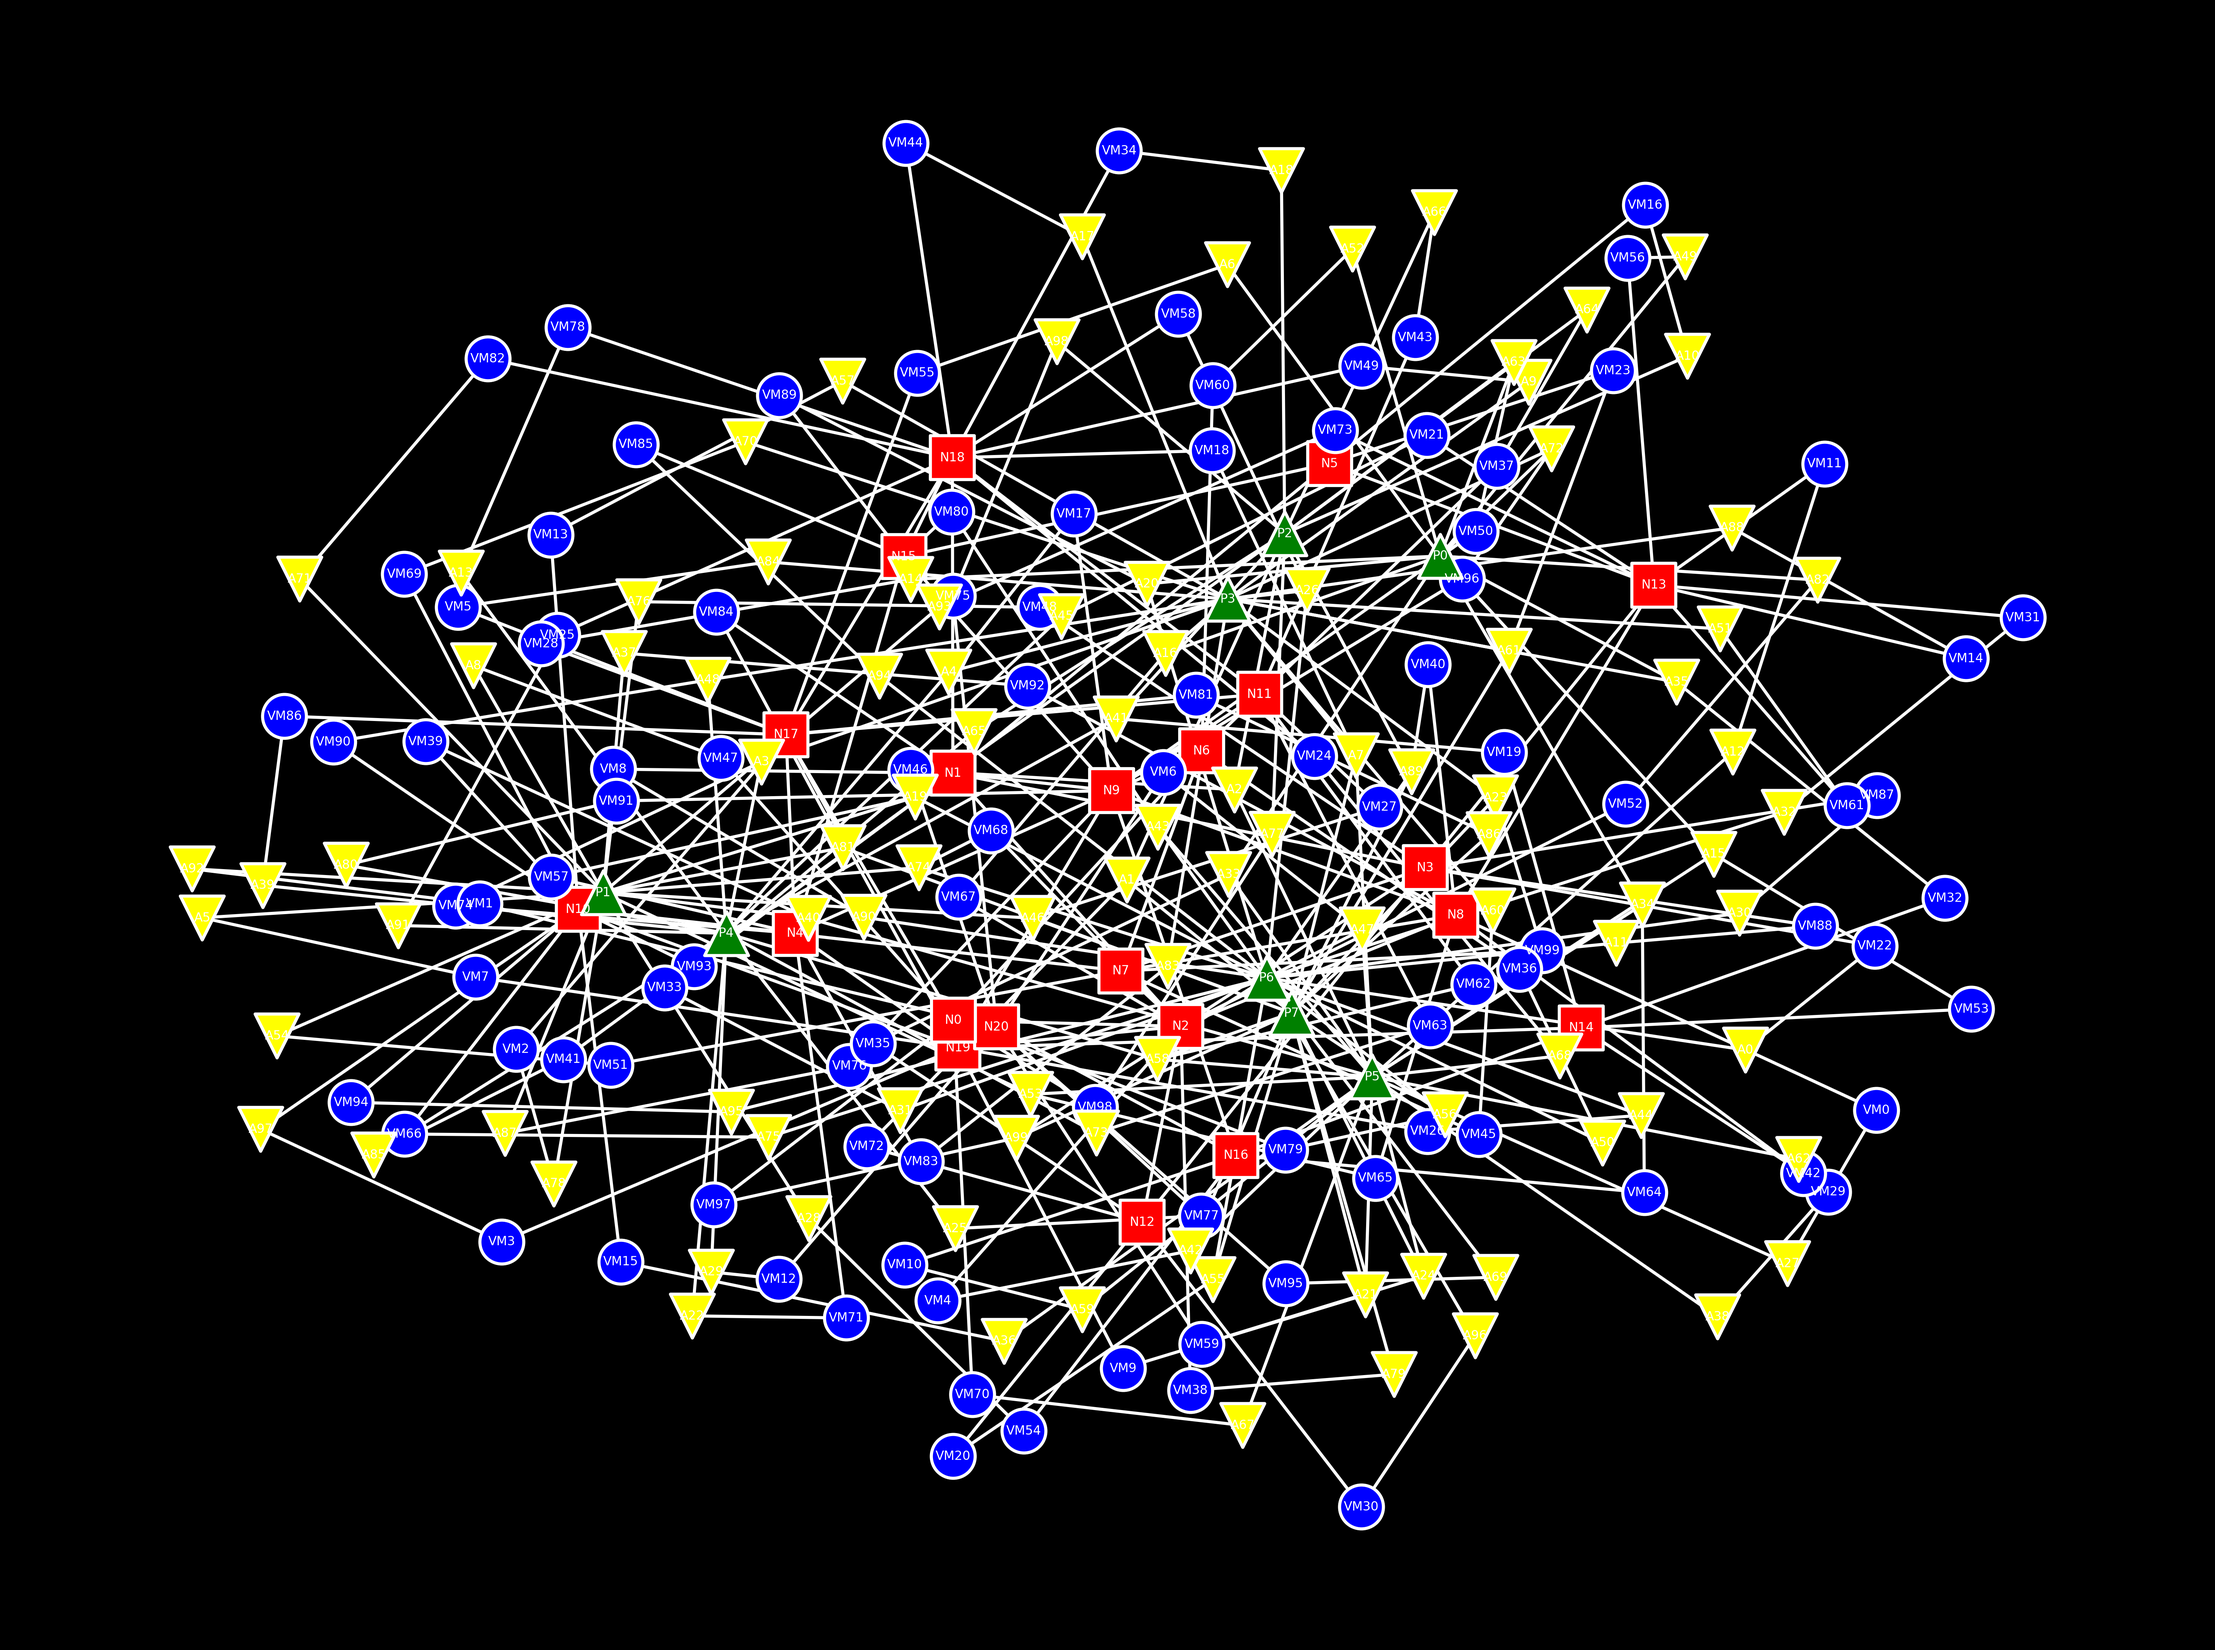
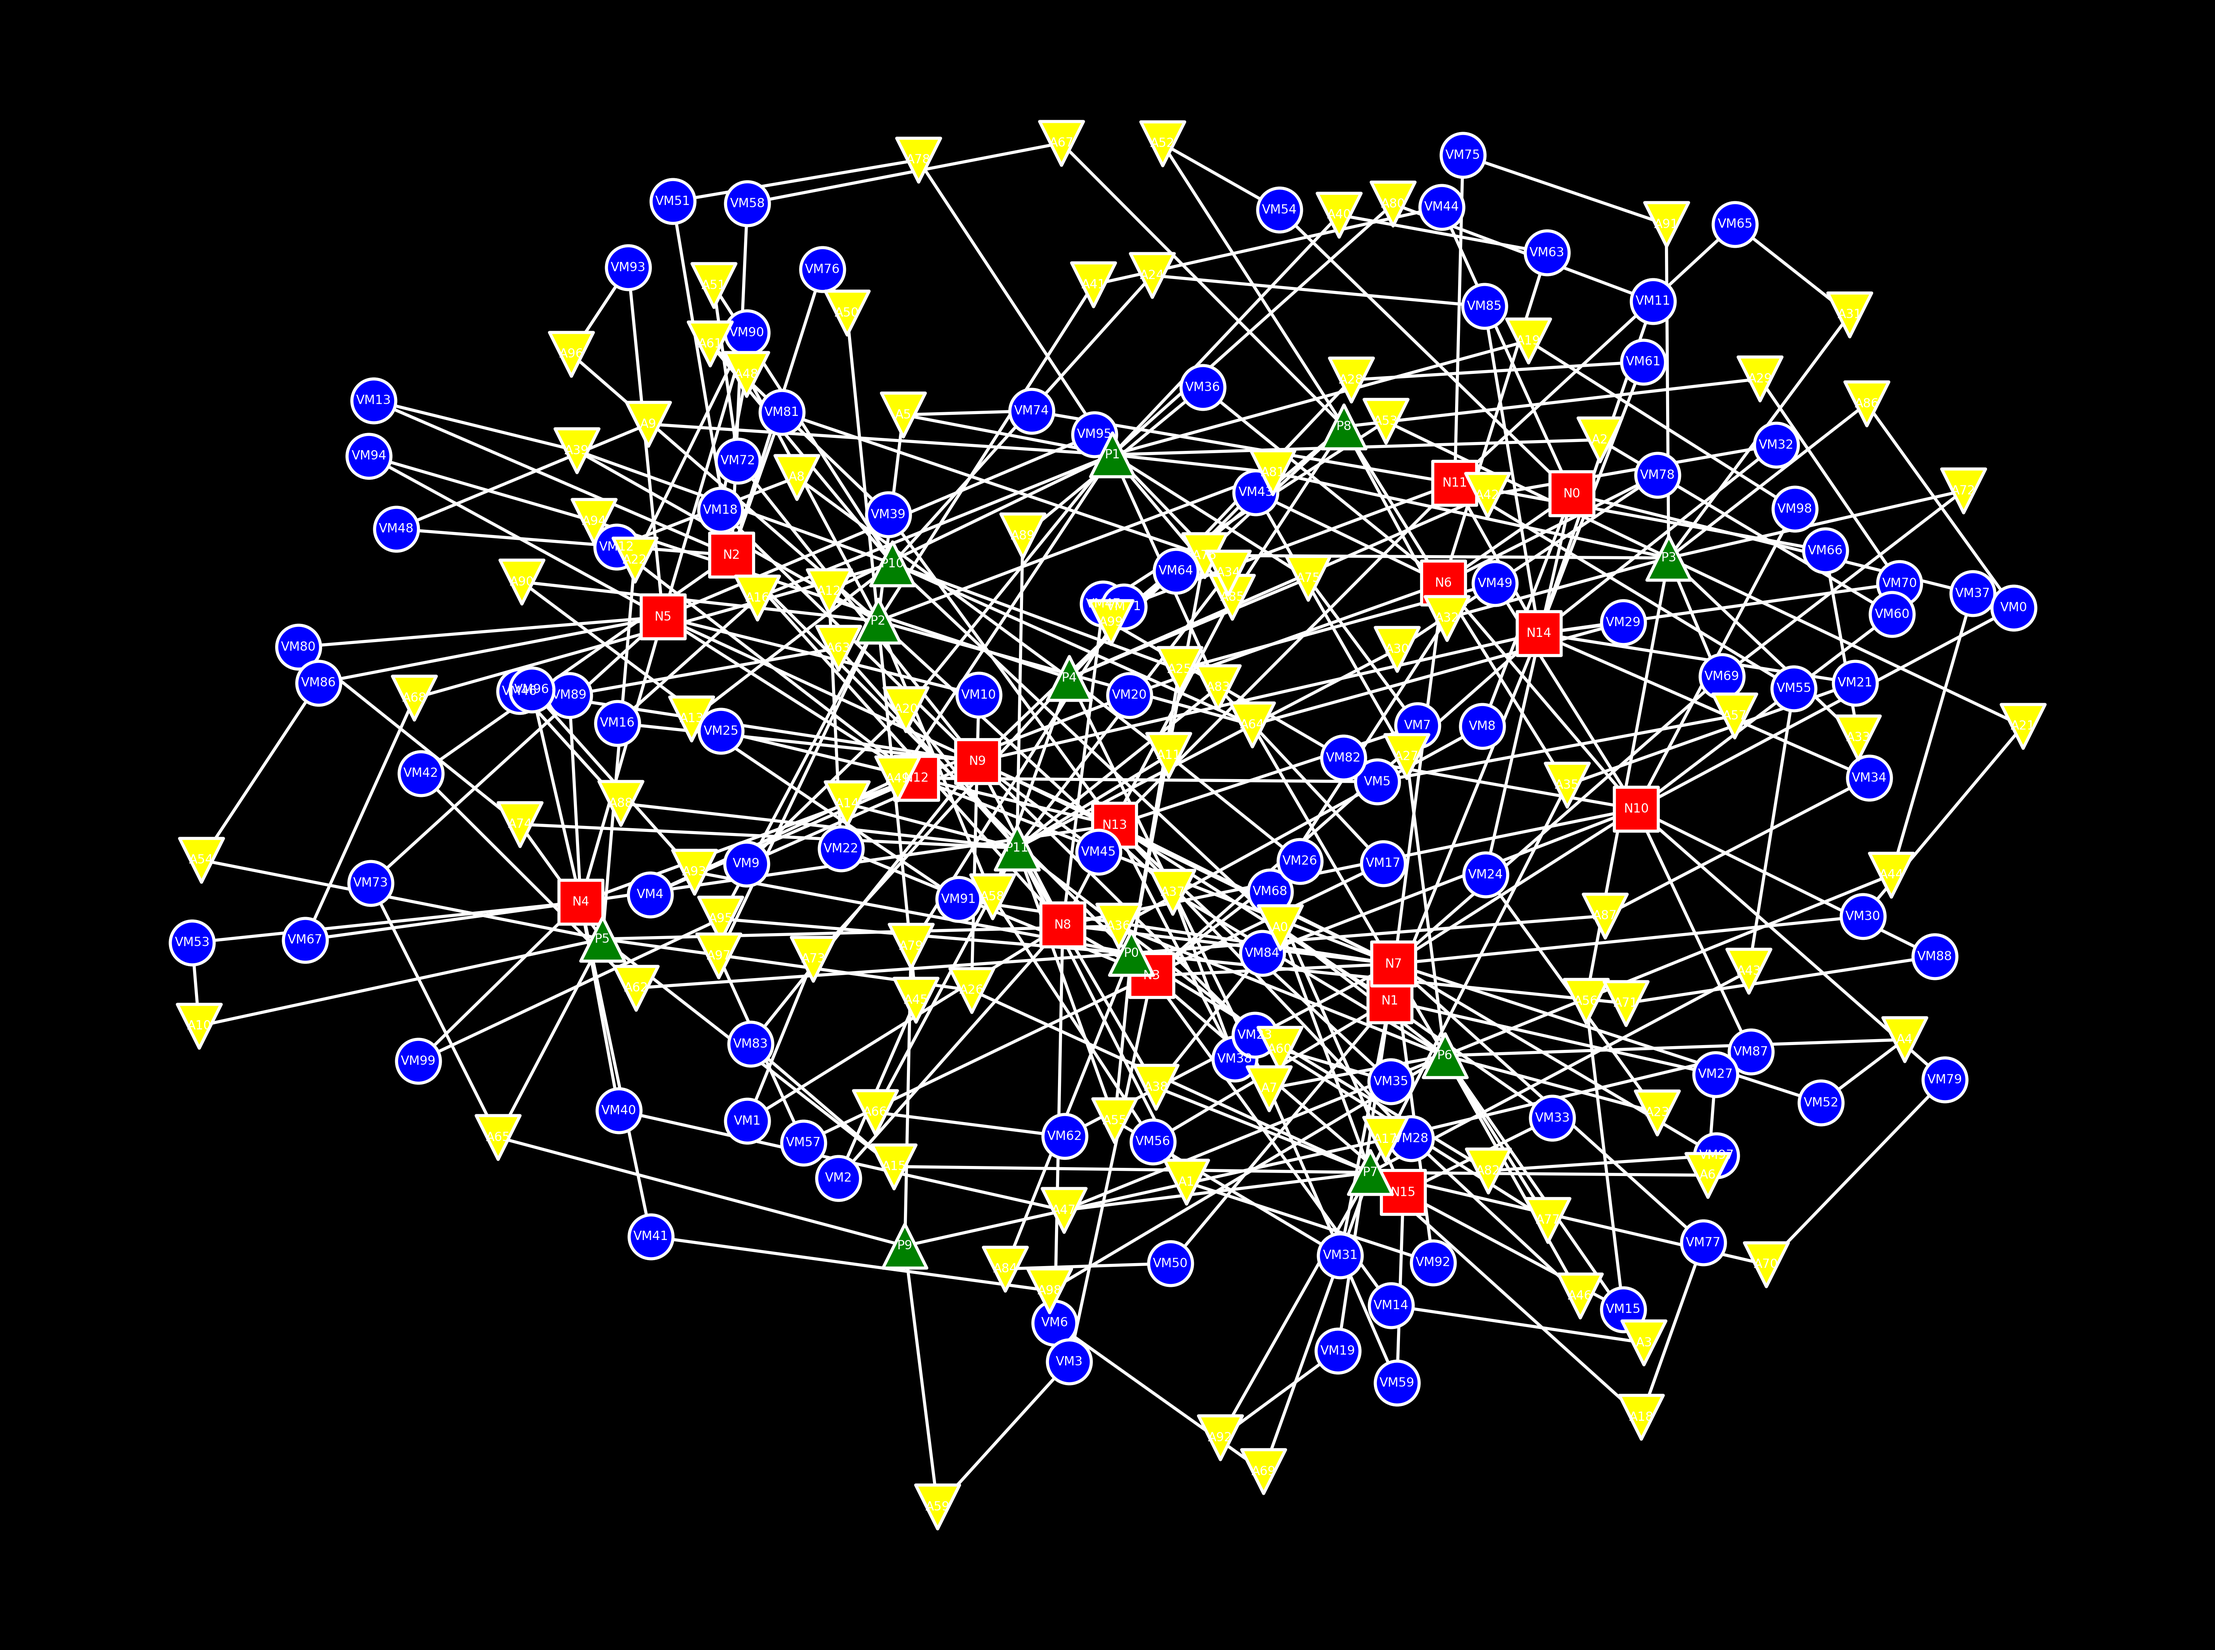
Introduced metamodel dictionary.

Changed region(s): [[0.0625, 0.0622, 0.9375, 0.9335], [0.5938, 0.9024, 0.625, 0.9335]]

diff --git a/mal_sampler.py b/mal_sampler.py
@@ -16,15 +16,17 @@ class Asset:
         return len(self.associated_assets[asset_type]) < self.n_associated_assets[asset_type]
 
     def print(self):
-        print(f"{self.asset_type_name}: {self.name}. Associated assets: {[(n, [a.name for a in list(self.associated_assets[n])]) for n in self.associated_assets]}")
+        print(
+            f"{self.asset_type_name}: {self.name}. Associated assets: {[(n, [a.name for a in list(self.associated_assets[n])]) for n in self.associated_assets]}")
 
 
-class Model():
-    def __init__(self):
+class Model:
+    def __init__(self, metamodel: dict):
         self.n_assets = dict()
         self.assets = dict()
         self.n_assets['network'] = 1 + binom(n=30, p=0.5).rvs()
-        self.n_assets['principal'] = 1 + binom(n=10*self.n_assets['network'], p=0.05).rvs()
+        self.n_assets['principal'] = 1 + \
+            binom(n=10*self.n_assets['network'], p=0.05).rvs()
         self.n_assets['vm_instance'] = 100
         self.n_assets['admin'] = sys.maxsize
         self.n_assets['login'] = sys.maxsize
@@ -38,8 +40,10 @@ class Model():
         if len(self.assets[asset_type]) < self.n_assets[asset_type]:
             if asset_type == 'network':
                 a = Asset(f"N{len(self.assets[asset_type])}", asset_type)
-                a.n_associated_assets['network'] = 1 + binom(n=500, p=0.005).rvs()
-                a.n_associated_assets['vm_instance'] = 1 + binom(n=1000, p=0.005).rvs()
+                a.n_associated_assets['network'] = 1 + \
+                    binom(n=500, p=0.005).rvs()
+                a.n_associated_assets['vm_instance'] = 1 + \
+                    binom(n=1000, p=0.005).rvs()
                 a.associated_assets['network'] = set()
                 a.associated_assets['vm_instance'] = set()
             elif asset_type == 'principal':
@@ -57,50 +61,67 @@ class Model():
                 a.associated_assets['vm_instance'] = set()
                 a.associated_assets['principal'] = set()
                 a.n_associated_assets['vm_instance'] = 1
-                a.n_associated_assets['principal'] = 1 + binom(n=5, p=0.1).rvs()
+                a.n_associated_assets['principal'] = 1 + \
+                    binom(n=5, p=0.1).rvs()
             elif asset_type == 'login':
                 a = Asset(f"L{len(self.assets[asset_type])}", asset_type)
                 a.associated_assets['vm_instance'] = set()
                 a.associated_assets['principal'] = set()
                 a.n_associated_assets['vm_instance'] = binom(n=30, p=0.5).rvs()
-                a.n_associated_assets['principal'] = 1 + binom(n=5, p=0.1).rvs()
+                a.n_associated_assets['principal'] = 1 + \
+                    binom(n=5, p=0.1).rvs()
             else:
                 raise ValueError(f'Unknown asset type: {asset_type}')
             self.assets[asset_type].add(a)
         else:
-            print(f'Reached the limit of {self.n_assets[asset_type]} {asset_type} assets.')
+            print(
+                f'Reached the limit of {self.n_assets[asset_type]} {asset_type} assets.')
         return a
 
     def associate(self, source_asset_type: str, target_asset_type: str):
-        print(f'Attempting to associate some {source_asset_type} to some {target_asset_type}')
-        available_source_assets = [a for a in self.assets[source_asset_type] if a.accepts(target_asset_type)]
+        print(
+            f'Attempting to associate some {source_asset_type} to some {target_asset_type}')
+        available_source_assets = [
+            a for a in self.assets[source_asset_type] if a.accepts(target_asset_type)]
         if len(available_source_assets) == 0:
-            print(f'Could not find, and would not create, source {source_asset_type} to associate to {target_asset_type}') 
+            print(
+                f'Could not find, and would not create, source {source_asset_type} to associate to {target_asset_type}')
             return False
         else:
-            print(f'Found {len(available_source_assets)} {source_asset_type} to associate to {target_asset_type}')
+            print(
+                f'Found {len(available_source_assets)} {source_asset_type} to associate to {target_asset_type}')
             source_asset = random.choice(available_source_assets)
 
-            available_target_assets = [a for a in self.assets[target_asset_type] if a.accepts(source_asset_type)]
-            print(f'Prelim 1: Found {len(available_target_assets)} {target_asset_type} to associate to {source_asset_type}')
-            available_target_assets = [a for a in available_target_assets if a not in source_asset.associated_assets[target_asset_type]]
-            print(f'Prelim 2: Found {len(available_target_assets)} {target_asset_type} to associate to {source_asset_type}')
+            available_target_assets = [
+                a for a in self.assets[target_asset_type] if a.accepts(source_asset_type)]
+            print(
+                f'Prelim 1: Found {len(available_target_assets)} {target_asset_type} to associate to {source_asset_type}')
+            available_target_assets = [
+                a for a in available_target_assets if a not in source_asset.associated_assets[target_asset_type]]
+            print(
+                f'Prelim 2: Found {len(available_target_assets)} {target_asset_type} to associate to {source_asset_type}')
             if target_asset_type == source_asset_type:
-                available_target_assets = [a for a in available_target_assets if a != source_asset]
-            print(f'Found {len(available_target_assets)} {target_asset_type} to associate to {source_asset_type}')
+                available_target_assets = [
+                    a for a in available_target_assets if a != source_asset]
+            print(
+                f'Found {len(available_target_assets)} {target_asset_type} to associate to {source_asset_type}')
             if len(available_target_assets) > 0:
                 target_asset = random.choice(available_target_assets)
             else:
-                print(f'Not enough {target_asset_type} to associate to {source_asset_type}. Attempting to create one.')
+                print(
+                    f'Not enough {target_asset_type} to associate to {source_asset_type}. Attempting to create one.')
                 target_asset = self.add(target_asset_type)
 
             if target_asset:
-                source_asset.associated_assets[target_asset_type].add(target_asset)
-                target_asset.associated_assets[source_asset_type].add(source_asset)
+                source_asset.associated_assets[target_asset_type].add(
+                    target_asset)
+                target_asset.associated_assets[source_asset_type].add(
+                    source_asset)
                 print(f'Associated {source_asset.name} to {target_asset.name}')
                 return True
             else:
-                print(f'Could not find or create target {target_asset_type} to associate to {source_asset_type}') 
+                print(
+                    f'Could not find or create target {target_asset_type} to associate to {source_asset_type}')
                 return False
 
     def print(self):
@@ -118,19 +139,43 @@ class Model():
                         G.add_edge(asset.name, associated_asset.name)
         pos = nx.spring_layout(G, k=0.25, iterations=50)
         plt.figure(facecolor='black')
-        nx.draw_networkx_nodes(G, pos, nodelist=[nw.name for nw in self.assets['network']], node_shape='s', node_color='red', edgecolors='white', linewidths=0.5, node_size=50)
-        nx.draw_networkx_nodes(G, pos, nodelist=[ah.name for ah in self.assets['vm_instance']], node_shape='o', node_color='blue', edgecolors='white', linewidths=0.5, node_size=50)
-        nx.draw_networkx_nodes(G, pos, nodelist=[p.name for p in self.assets['principal']], node_shape='^', node_color='green', edgecolors='white', linewidths=0.5, node_size=50)
-        nx.draw_networkx_nodes(G, pos, nodelist=[a.name for a in self.assets['admin']], node_shape='v', node_color='yellow', edgecolors='white', linewidths=0.5, node_size=50)
+        nx.draw_networkx_nodes(G, pos, nodelist=[nw.name for nw in self.assets['network']],
+                               node_shape='s', node_color='red', edgecolors='white', linewidths=0.5, node_size=50)
+        nx.draw_networkx_nodes(G, pos, nodelist=[ah.name for ah in self.assets['vm_instance']],
+                               node_shape='o', node_color='blue', edgecolors='white', linewidths=0.5, node_size=50)
+        nx.draw_networkx_nodes(G, pos, nodelist=[p.name for p in self.assets['principal']],
+                               node_shape='^', node_color='green', edgecolors='white', linewidths=0.5, node_size=50)
+        nx.draw_networkx_nodes(G, pos, nodelist=[a.name for a in self.assets['admin']],
+                               node_shape='v', node_color='yellow', edgecolors='white', linewidths=0.5, node_size=50)
         nx.draw_networkx_edges(G, pos, edge_color='white', width=0.5)
         nx.draw_networkx_labels(G, pos, font_color='white', font_size=2)
         plt.axis('off')
-        plt.savefig('model.png', dpi=1200, bbox_inches='tight', pad_inches = 0, facecolor='black') 
+        plt.savefig('model.png', dpi=1200, bbox_inches='tight',
+                    pad_inches=0, facecolor='black')
 
 
 class Sampler():
     def __init__(self):
-        self.model = Model()
+        metamodel = {  'network': { 'abbreviation': 'N',
+                                    'n': ('BinomialPlusOne', 30, 0.5), 
+                                    'associated_assets': {
+                                        'network': ('Binomial', 500, 0.005), 
+                                        'vm_instance': ('Binomial', 1000, 0.005)}},
+            'vm_instance': {        'abbreviation': 'VM',
+                                    'n': ('Constant', 100),
+                                    'associated_assets': {
+                                        'network': ('Constant', 1),
+                                        'admin': ('Constant', 1)}},
+            'admin': {              'abbreviation': 'A',
+                                    'n': ('Constant', sys.maxsize),
+                                    'associated_assets': {
+                                        'vm_instance': ('Constant', 1),
+                                        'principal': ('BinomialPlusOne', 5, 0.1)}},
+            'principal': {          'abbreviation': 'P',
+                                    'n': ('BinomialPlusOne', 100, 0.05),
+                                    'associated_assets': {
+                                        'admin': ('Binomial', 200, 0.1)}}}
+        self.model = Model(metamodel)
 
     def sample(self):
         print('Adding networks')
@@ -150,6 +195,7 @@ class Sampler():
             pass
         self.model.print()
         self.model.plot()
+
 
 if __name__ == "__main__":
     sampler = Sampler()
